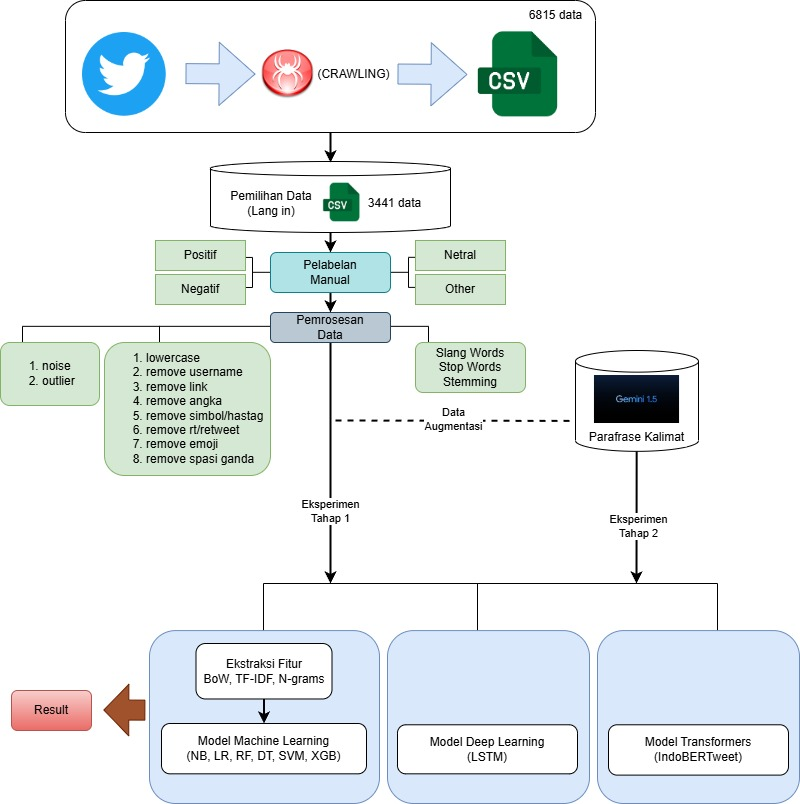
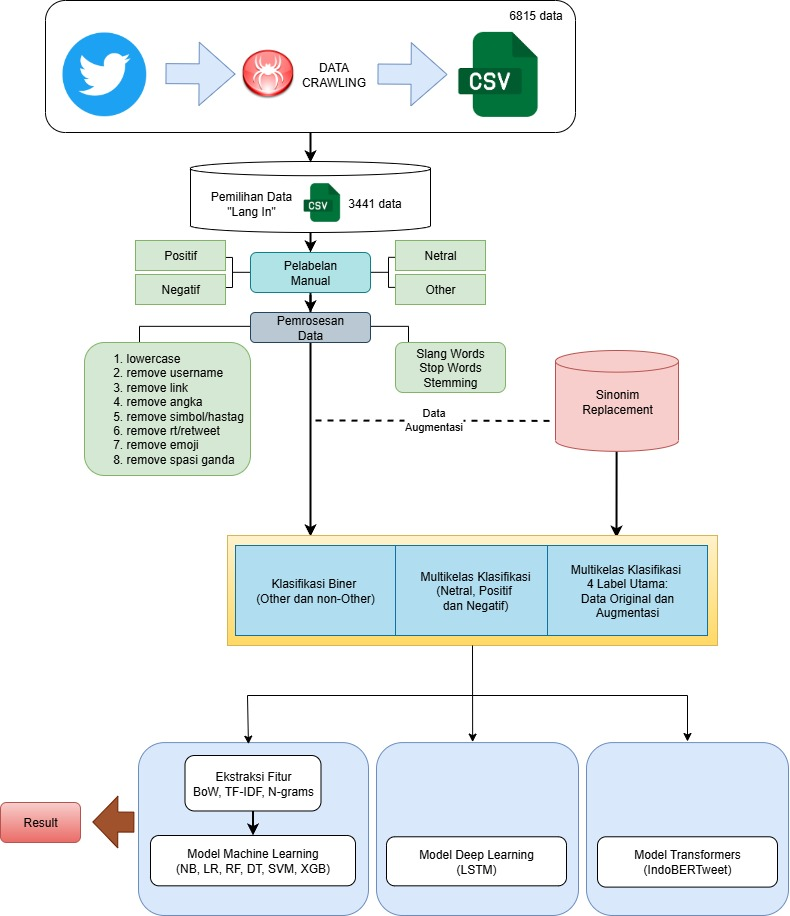
decs

diff --git a/README.md b/README.md
@@ -37,8 +37,48 @@ Penelitian ini bertujuan untuk menganalisis bagaimana sentimen masyarakat terhad
   - Feature Extraction (BoW, N-gram, TF-IDF, IndoBERTweet)
   - Modeling & Evaluasi
 - **Eksperimen**:
-  - biner (others dan non others)
-  - 3 Kelas (Positif, Negatif, Netral)
-  - 4 Kelas (Positif, Negatif, Netral, Others)
+  - Biner Class (others dan non others)
+  - Multi Class (Positif, Negatif, Netral)
+  - Multi Class Data Ori/Data Aug (Positif, Negatif, Netral, Others)
+
+---
+
+## 📊 Distribusi Data Eksperimen
+
+<div align="center">
+
+<table>
+<tr>
+<td align="center">
+<img src="Img/1.png" width="300"><br>
+<b>Biner Class</b><br>
+Distribusi data training <i>Others</i> dan <i>Non-Others</i>. 
+Eksperimen ini bertujuan untuk memisahkan data relevan dan tidak relevan terhadap topik <i>Slow Life</i>.
+</td>
+
+<td align="center">
+<img src="Img/2.png" width="300"><br>
+<b>Multi Class</b><br>
+Distribusi data training <i>Positif</i>, <i>Negatif</i>, dan <i>Netral</i> 
+dengan memisahkan kategori kelas other.
+</td>
+
+<td align="center">
+<img src="Img/3.png" width="300"><br>
+<b>Multi Class (Data Original)</b><br>
+Distribusi kelas <i>Positif</i>, <i>Negatif</i>, <i>Netral</i>, dan <i>Others</i> 
+Menggunakan data Original (Imbalance).
+</td>
+
+<td align="center">
+<img src="Img/4.png" width="300"><br>
+<b>Multi Class (Data Augmentation)</b><br>
+Distribusi kelas <i>Positif</i>, <i>Negatif</i>, <i>Netral</i>, dan <i>Others</i> 
+Setelah dilakukan penyeimbangan data (Balance) menggunakan teknik augmentasi (Synonym Replacement dengan memanfaatkan model bahasa XLM-RoBERTa).
+</td>
+</tr>
+</table>
+
+</div>
 
 ---
